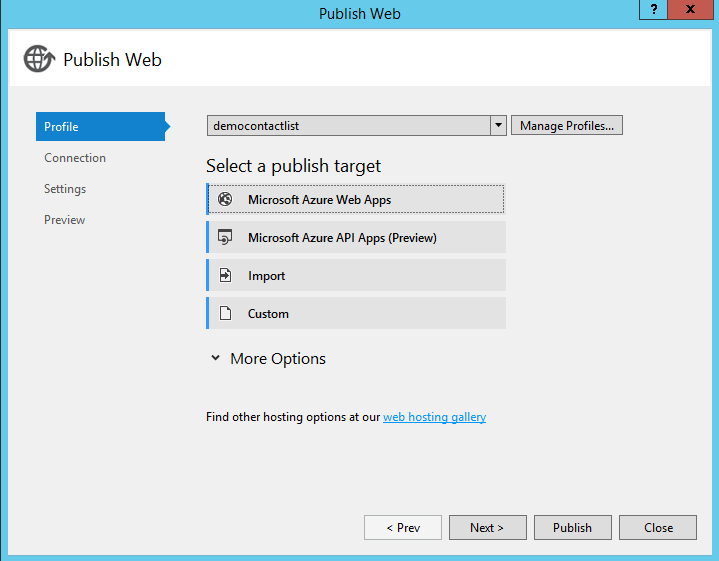
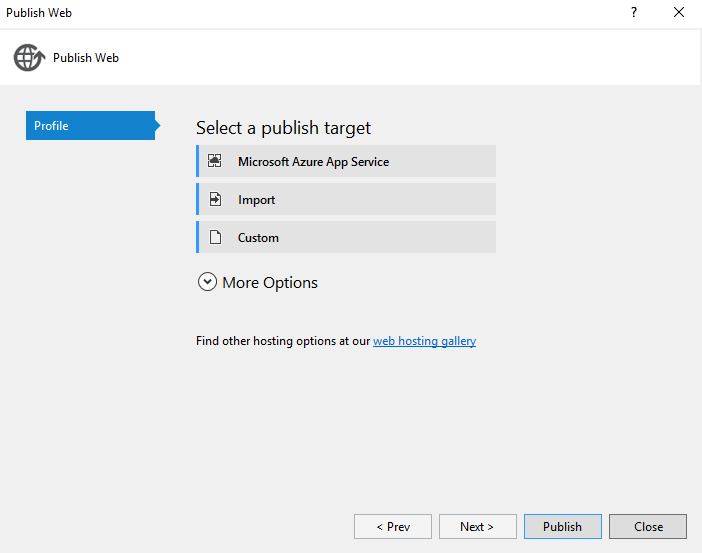
updated mobile client/api lab

diff --git a/HOL/build-mobile-app-with-web-client/source/ContactList/ContactsList.Angular/index.html b/HOL/build-mobile-app-with-web-client/source/ContactList/ContactsList.Angular/index.html
@@ -74,8 +74,8 @@
     <script type="text/javascript">
         /* client javascript code here */
         angular.module('myApp', []).controller('contactListCtrl', function ($scope, $http) {
-            $scope.baseUrl = 'http://democontactlist.azurewebsites.net';
-            //$scope.baseUrl = 'http://localhost:51864';
+            //$scope.baseUrl = 'http://[your azure app service name].azurewebsites.net';
+            $scope.baseUrl = 'http://localhost:51864';
 
             $scope.refresh = function () {
                 $scope.status = "Refreshing Contacts...";

diff --git a/HOL/build-mobile-app-with-web-client/README.md b/HOL/build-mobile-app-with-web-client/README.md
@@ -24,7 +24,7 @@ In this section, you will create a Azure App Service Mobile App backend.
 
 2. Click **Web + Mobile** and then click **Mobile App**.
 
-3. Enter **App Service Name**. Select **Subscription**. Select/Create **Resource Group**. Select/Create **App Service Plan**.
+3. Enter a unique **App Service Name**. Select **Subscription**. Create a new **Resource group** named contactlisting. **Resource Group**. Create a new **App Service Plan** in the region you want to run the lab in.
 
    ![](./images/creating-portal.PNG)
 
@@ -120,7 +120,9 @@ In the ContactsList sample application, the ContactsList.Angular project is a si
 
 	>Note: These instructions work for Internet Explorer and Edge browsers because these browsers allow cross-origin JavaScript calls from and to http://localhost URLs. If you're using Chrome, start the browser with the --disable-web-security switch. If you're using Firefox, skip this section.
 
-3. Set the ContactsList.API and ContactsList.Angular projects as startup projects, with ContactsList.API starting before ContactsList.Angular.
+3. Set the ContactsList.API and ContactsList.Angular projects as startup projects, with ContactsList.API starting before ContactsList.Angular by right clicking on the Solution, opening the properties, and set both projects to Start.
+
+   ![](./images/multiple-start-projects.png)
 
 4. Press F5 to start the projects.
 
@@ -135,33 +137,42 @@ In the ContactsList sample application, the ContactsList.Angular project is a si
 
 ### Deploy the ContactsList.Angular project to the web app
 
-1. In Solution Explorer, right-click the ContactsList.Angular project, and then click Publish.
+1. Before the solution will work when running against Azure you must enable CORS on the API App. 
 
-2. Click the Microsoft Azure web App. Create a new Web App with the final app url along with the app settings like Subscription, Resource Group, App Service Plan and click Create which will create a Web App and download the deployment settings details
+2. Open the API App that you created earlier in the Azure Management Portal, within SETTINGS click CORS. 
+ 
+4. In the ALLOWED ORIGINS section add * and click Save on the toolbar. 
 
-3. Click the Settings tab.
+  ![](./images/enable-cors.png)
 
-4. Expand File Publish Options, and then select Remove additional files at destination.
+
+5. In Solution Explorer, right-click the ContactsList.Angular project, and then click Publish.
+
+6. Click the Microsoft Azure web App. Create a new Web App with the final app url along with the app settings like Subscription, Resource Group, App Service Plan and click Create which will create a Web App and download the deployment settings details
+
+7. Click the Settings tab.
+
+8. Expand File Publish Options, and then select Remove additional files at destination.
 
    ![](./images/publish-code-list.png)
 
 	Normally when you deploy a web project to an existing App Service web app you don't want the "remove additional files" option because any changes are typically updates or new files. In this case you're deploying a different project to the same web app, so there are likely to be many files from the earlier deployment that aren't needed in the new one.
 
-5. Click Publish.
+9. Click Publish.
+ 
 
 <a name="test-the-mobile-and-web-apps"></a>
 ## Test the Mobile and Web Apps 
 
-1. To Get the web UI. Open **RUN**(Windows + R) and type **chrome.exe --user-data-dir="C:/Chrome dev session" --disable-web-security** and press Enter.
+1. Refresh the local client now that it has been updated to point to the API in Azure.
 
-2. Open the Web App Url.
-   ![View of Web Application in the Browser](./images/final-demo.png)
+   ![View of Web Application in the Browser](./images/validated-azure-api.png)
 
 ##Summary
 
 By completing this lab you have learned how to:
 
-* Create Azure App Service Mobile App backend
-* Use the same underlying Mobile App backend for an app that has a website.
+* Create an Azure App Service API backend
+* Use the same underlying API App for a web app
 
 
